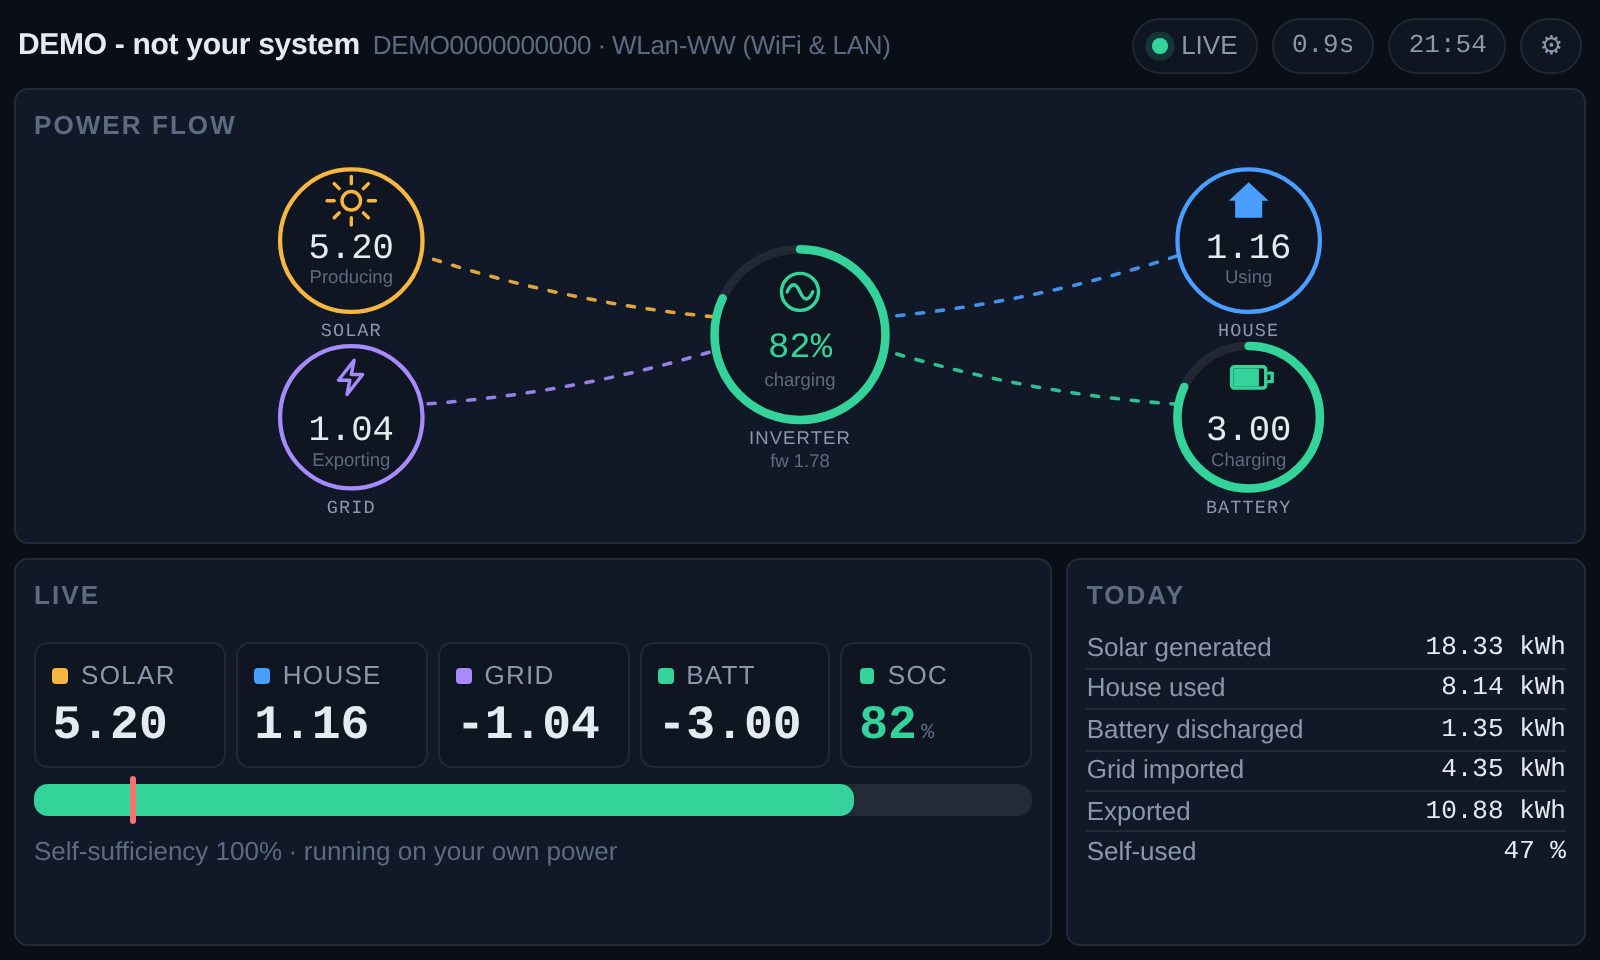
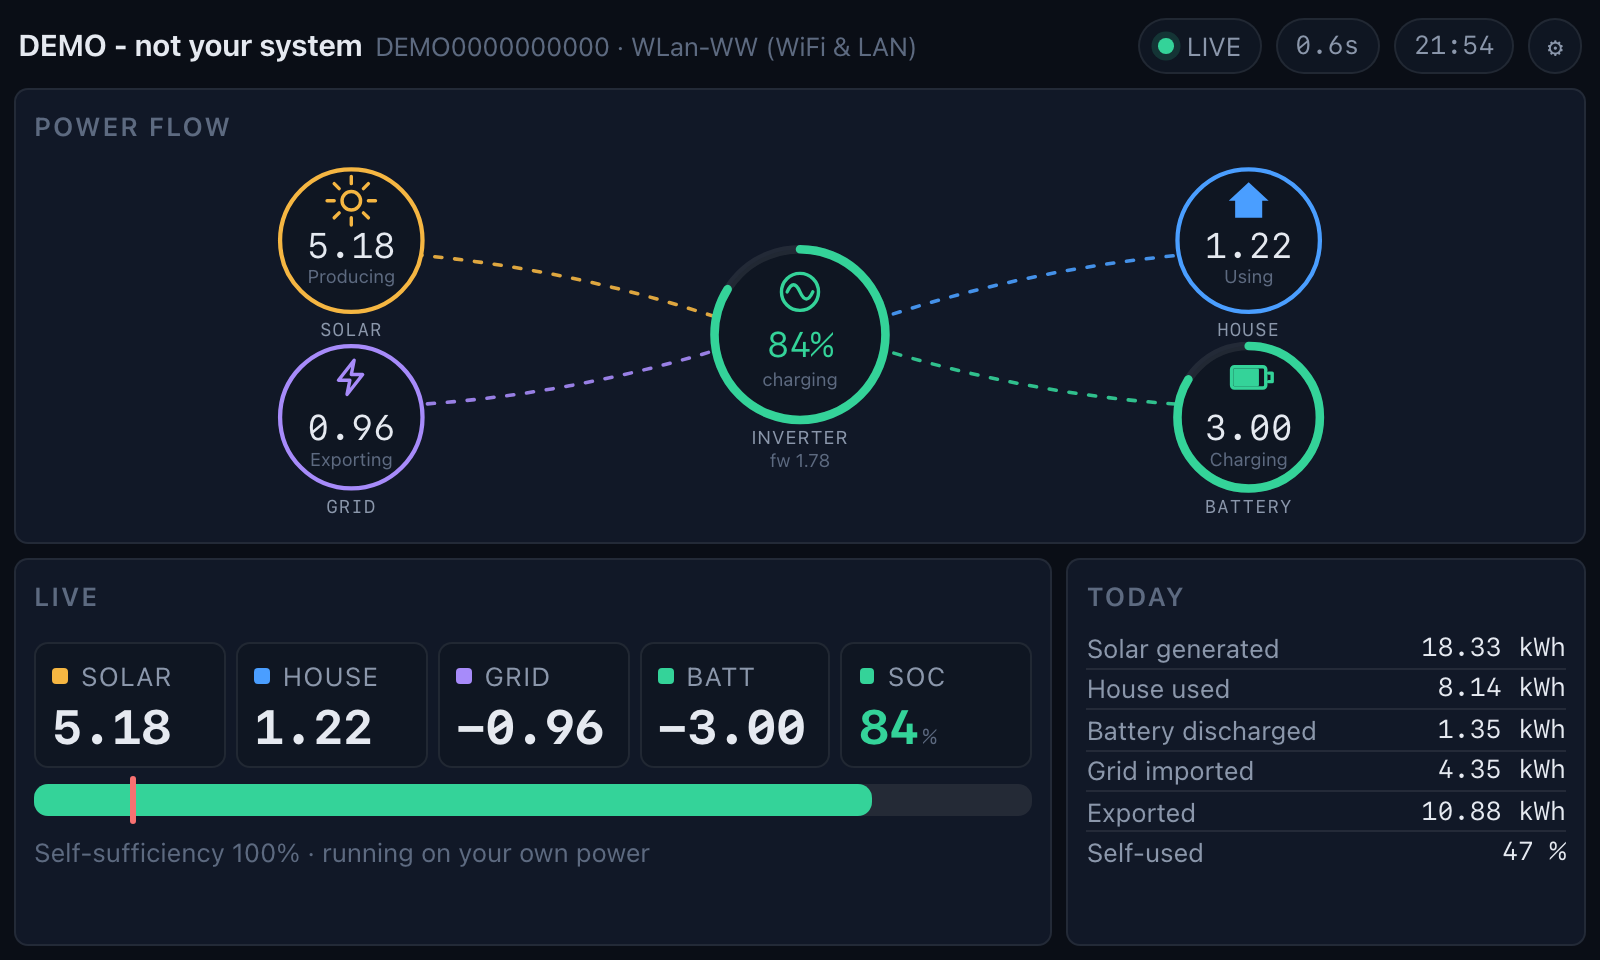
The solar and house rings now bend the opposite way to the grid and battery rings.
In the rings diagram all four wires used to curve the same way, so the
diagram read as four lines sagging together. Solar and house now bow
away from the hub's horizontal axis, while grid and battery keep
bowing towards it, and the diagram reads as two mirrored pairs.

The change is in the path geometry in static/index.html. Each wire is a
quadratic Bezier, and the bend is the signed distance from the control
point to the chord. The solar and house control points were reflected
about their own chords, which keeps the endpoints where they were -
each wire still lands on the edge of its node's ring - and keeps the
same amount of curvature, just the other way:

    rLinePv    Q285.1 101.7  ->  Q290.0 78.3    bend +12.0 -> -11.9
    rLineLoad  Q614.9 101.7  ->  Q610.0 78.3    bend +12.0 -> -11.9
    rLineGrid  Q289.8 165.7  ->  unchanged
    rLineBat   Q610.2 165.7  ->  unchanged

The bend is a property of the path, not of the animation, so the
dashes still travel the way the power is going.

## The test

tests/test_diagram.py measures the bend out of the markup and checks
that the two pairs stay opposite, that the diagram stays mirror-symmetric
about the hub, that no wire is left nearly straight, and that every
endpoint is still on its node's ring.

The layout check passes at all eight viewport sizes, and the browser
flow-direction check still finds 34 animated wires pointing the way
the power is going across 6 states and both diagrams.

313 tests (was 307).

diff --git a/static/index.html b/static/index.html
@@ -706,8 +706,8 @@ body[data-slide="weather"] .dash{
           <text class="fname" x="570" y="260" text-anchor="middle">BATTERY</text>
         </svg>
         <svg class="flowsvg ringsvg" id="ringsSvg" viewBox="0 0 900 258" preserveAspectRatio="xMidYMid meet">
-          <path id="rLinePv"   class="rwire moving" d="M183.9 68.3 Q285.1 101.7 391.3 111.7"  stroke="var(--pv)"/>
-          <path id="rLineLoad" class="rwire moving" d="M508.7 111.7 Q614.9 101.7 716.1 68.3"  stroke="var(--load)"/>
+          <path id="rLinePv"   class="rwire moving" d="M183.9 68.3 Q290.0 78.3 391.3 111.7"  stroke="var(--pv)"/>
+          <path id="rLineLoad" class="rwire moving" d="M508.7 111.7 Q610.0 78.3 716.1 68.3"  stroke="var(--load)"/>
           <path id="rLineGrid" class="rwire moving" d="M184.2 172.9 Q289.8 165.7 391.0 134.9" stroke="var(--grid)"/>
           <path id="rLineBat"  class="rwire moving" d="M509.0 134.9 Q610.2 165.7 715.8 172.9" stroke="var(--bat)"/>
 

diff --git a/tests/test_diagram.py b/tests/test_diagram.py
@@ -8,6 +8,7 @@ blank on the Pi with no error anywhere.
 
 from __future__ import annotations
 
+import math
 import os
 import re
 import sys
@@ -237,6 +238,106 @@ class TestFlowDiagram(unittest.TestCase):
         self.assertIn('body[data-diagram="rings"] #flowHint{display:none}', self.index)
         self.assertIn('body[data-diagram="flow"] .side .flowhint.tiny-only{display:none}',
                       self.index)
+
+
+class TestRingWireBend(unittest.TestCase):
+    """The four rings wires must not all bend the same way.
+
+    Solar and house bow away from the hub's horizontal axis, while grid and
+    battery bow towards it, so the diagram reads as two mirrored pairs rather
+    than four wires sagging together.
+
+    The bend is measured the same way for every wire: the signed distance
+    from the control point to the chord, with the chord rotated a quarter
+    turn anticlockwise on screen.  All four wires are drawn left to right, so
+    a positive bend means "below the chord" and a negative one means "above
+    it".
+    """
+
+    def setUp(self) -> None:
+        self.index = _read(INDEX)
+        rings = self.index[self.index.index('id="ringsSvg"'):]
+        self.wires = {}
+        for match in re.finditer(r'<path id="(rLine\w+)"[^>]*?\sd="([^"]+)"', rings):
+            self.wires[match.group(1)] = self._parse(match.group(2))
+
+    @staticmethod
+    def _parse(d: str) -> tuple:
+        """A quadratic Bezier: the start point, the control point, the end."""
+        nums = [float(n) for n in re.findall(r"-?\d+\.?\d*", d)]
+        return ((nums[0], nums[1]), (nums[2], nums[3]), (nums[4], nums[5]))
+
+    @staticmethod
+    def _bend(wire: tuple) -> float:
+        """Signed perpendicular offset of the control point from the chord."""
+        (x0, y0), (cx, cy), (x2, y2) = wire
+        dx, dy = x2 - x0, y2 - y0
+        length = math.hypot(dx, dy)
+        # the chord rotated a quarter turn anticlockwise on screen
+        nx, ny = -dy / length, dx / length
+        return (cx - x0) * nx + (cy - y0) * ny
+
+    def test_every_wire_was_found(self):
+        for wire in ("rLinePv", "rLineLoad", "rLineGrid", "rLineBat"):
+            self.assertIn(wire, self.wires, f"wire {wire} not found")
+
+    def test_solar_and_house_bend_the_other_way_from_grid_and_battery(self):
+        pv = self._bend(self.wires["rLinePv"])
+        load = self._bend(self.wires["rLineLoad"])
+        grid = self._bend(self.wires["rLineGrid"])
+        bat = self._bend(self.wires["rLineBat"])
+
+        self.assertLess(pv * grid, 0, "solar and grid bend the same way")
+        self.assertLess(pv * bat, 0, "solar and battery bend the same way")
+        self.assertLess(load * grid, 0, "house and grid bend the same way")
+        self.assertLess(load * bat, 0, "house and battery bend the same way")
+
+    def test_the_two_pairs_bend_alike(self):
+        """Solar matches house, and grid matches battery."""
+        pv = self._bend(self.wires["rLinePv"])
+        load = self._bend(self.wires["rLineLoad"])
+        grid = self._bend(self.wires["rLineGrid"])
+        bat = self._bend(self.wires["rLineBat"])
+        self.assertGreater(pv * load, 0, "solar and house bend differently")
+        self.assertGreater(grid * bat, 0, "grid and battery bend differently")
+
+    def test_the_bend_is_not_flat(self):
+        """A straight wire would satisfy the signs but draw as a dead line."""
+        for wire, bend in ((name, self._bend(geometry))
+                           for name, geometry in self.wires.items()):
+            self.assertGreater(abs(bend), 5.0, f"{wire} is nearly straight")
+
+    def test_the_wires_still_join_their_nodes(self):
+        """The bend must not move an endpoint off its ring.
+
+        Every wire runs between two nodes - a satellite on one side and the
+        hub on the other - so each of its two ends is checked against the
+        ring it belongs to.
+        """
+        # node id -> (centre x, centre y, radius)
+        rings = {"PV": (135, 58, 50), "LOAD": (765, 58, 50),
+                 "GRID": (135, 182, 50), "BATT": (765, 182, 50),
+                 "HUB": (450, 124, 60)}
+        # wire id -> the node at each end, in the order the path is drawn
+        ends = {"rLinePv": ("PV", "HUB"), "rLineLoad": ("HUB", "LOAD"),
+                "rLineGrid": ("GRID", "HUB"), "rLineBat": ("HUB", "BATT")}
+        for wire, (from_node, to_node) in ends.items():
+            (x0, y0), _, (x2, y2) = self.wires[wire]
+            for point, node in (((x0, y0), from_node), ((x2, y2), to_node)):
+                cx, cy, radius = rings[node]
+                distance = math.hypot(point[0] - cx, point[1] - cy)
+                self.assertAlmostEqual(distance, radius, delta=0.5,
+                                       msg=f"{wire} endpoint left the {node} ring")
+
+    def test_the_diagram_stays_mirror_symmetric(self):
+        """Solar mirrors house, and grid mirrors battery, about x=450."""
+        for left, right in (("rLinePv", "rLineLoad"), ("rLineGrid", "rLineBat")):
+            left_ctrl = self.wires[left][1]
+            right_ctrl = self.wires[right][1]
+            self.assertAlmostEqual(900 - left_ctrl[0], right_ctrl[0], delta=0.05,
+                                   msg=f"{left} and {right} are not mirrored")
+            self.assertAlmostEqual(left_ctrl[1], right_ctrl[1], delta=0.05,
+                                   msg=f"{left} and {right} are not mirrored")
 
 
 class TestDiagramSwitching(unittest.TestCase):

diff --git a/README.md b/README.md
@@ -167,6 +167,19 @@ The dashes always travel *along* the path as drawn, so the grid wire has to
 be reversed when importing in the linear diagram but when exporting in the
 rings one, and the battery wire has to be reversed while discharging in both.
 
+### Which way do the wires bend?
+
+In the rings diagram the four wires do not all curve the same way. **Solar
+and house bow away from the hub's horizontal axis**, while **grid and battery
+bow towards it**, so the diagram reads as two mirrored pairs rather than four
+wires sagging together.
+
+The bend is a property of the path, not of the animation — it does not change
+which way the dashes travel, only the shape of the wire they travel along.
+`tests/test_diagram.py` measures it out of the markup and checks that the
+two pairs stay opposite, that the diagram stays mirror-symmetric about the
+hub, and that every wire still lands on its node's ring.
+
 Two checks guard this:
 
 ```bash
